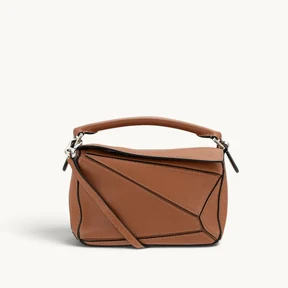
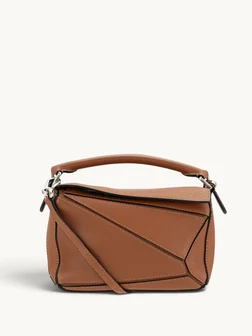
Deploy 65b601f349eb

Changed region(s): [[0.0278, 0.375, 0.8889, 0.9062], [0.8889, 0.625, 0.9167, 0.6562]]

diff --git a/styles.css b/styles.css
@@ -215,15 +215,18 @@ html .product-screen.is-frozen{position:fixed;inset:0;z-index:70;overflow:hidden
 html .product-screen.is-frozen .product-page{position:absolute;inset:0;overflow:hidden}
 .hub.is-under{pointer-events:none}
 
-/* Similar products (scenario #/product/similar): one quiet horizontal row right under the gallery, as in the reference —
-   square photo, brand + model, price; no card containers. Bleeds to the screen edges so the third item peeks out. */
+/* Similar products (scenario #/product/similar), redesign 2026-11-06: compact vertical tiles — 3:4 photo (76–96 px wide, ≈3.6 tiles per screen) with
+   the name and price under it (Depop / Vestiaire / Doji pattern: each item is a separate model with its own price, so
+   the info stays on the tile, not in a shared label). Native horizontal scroll with momentum and proximity snap; the row
+   bleeds to the screen edges so an overflowing next tile peeks out. No cards, borders or shadows. */
 html:not([data-sections~="similar"]) .similar{display:none}
-.similar{margin:0 calc(-1 * clamp(16px,4vw,24px)) calc(-1 * var(--space-5))} /* section gap 48 → 24 to the heading */
-.similar__list{display:flex;gap:var(--space-4);margin:0;padding:0 clamp(16px,4vw,24px);list-style:none;overflow-x:auto;overscroll-behavior-x:contain;scroll-snap-type:x proximity;scroll-padding-inline:clamp(16px,4vw,24px);scrollbar-width:none;-webkit-overflow-scrolling:touch}
+.similar{--similar-tile:clamp(76px,calc((100vw - 52px) / 3.6),96px);margin:0 calc(-1 * clamp(16px,4vw,24px)) calc(-1 * var(--space-5))} /* tile: ≈3.6 per screen (76–96 px; under 76 the name gets cut), so an overflowing 4th tile always peeks */ /* section gap 48 → 24 to the heading */
+.similar__list{display:flex;gap:var(--space-3);margin:0;padding:0 clamp(16px,4vw,24px);list-style:none;overflow-x:auto;overflow-y:hidden;overscroll-behavior-x:contain;touch-action:pan-x pan-y;scroll-snap-type:x proximity;scroll-padding-inline:clamp(16px,4vw,24px);scrollbar-width:none;-webkit-overflow-scrolling:touch}
 .similar__list::-webkit-scrollbar{display:none}
-.similar__item{flex:0 0 auto;display:grid;grid-template-columns:64px minmax(0,1fr);align-items:center;column-gap:var(--space-3);width:148px;scroll-snap-align:start}
-.similar__media{width:64px;height:64px;overflow:hidden;border-radius:8px;background:#f8f7f3}
+.similar__list:focus-visible{outline:2px solid var(--ink);outline-offset:2px}
+.similar__item{flex:0 0 var(--similar-tile);display:flex;flex-direction:column;min-width:0;scroll-snap-align:start}
+.similar__media{display:block;width:100%;aspect-ratio:3 / 4;overflow:hidden;border-radius:4px;background:#f8f7f3}
 .similar__media img{display:block;width:100%;height:100%;object-fit:cover}
-.similar__text{display:flex;flex-direction:column;gap:2px;min-width:0}
-.similar__name{color:var(--ink);font-size:var(--text-body-s-size);font-weight:400;line-height:18px;overflow-wrap:anywhere}
-.similar__price{color:#555;font-family:Manrope,-apple-system,"Helvetica Neue",Arial,sans-serif;font-size:var(--text-body-s-size);font-weight:400;line-height:18px;font-variant-numeric:tabular-nums;white-space:nowrap}
+.similar__text{display:flex;flex-direction:column;margin-top:var(--space-2);min-width:0}
+.similar__name{overflow:hidden;color:var(--ink);font-size:var(--text-caption-size);font-weight:400;line-height:16px;white-space:nowrap;text-overflow:ellipsis}
+.similar__price{color:#767676;font-family:Manrope,-apple-system,"Helvetica Neue",Arial,sans-serif;font-size:var(--text-caption-size);font-weight:400;line-height:16px;font-variant-numeric:tabular-nums;white-space:nowrap}

diff --git a/index.html b/index.html
@@ -19,15 +19,15 @@
     <script>(function (d, h) { d.dataset.route = h.startsWith('#/product') ? 'product' : 'index'; d.dataset.availability = h === '#/product/sold' ? 'sold' : 'available'; d.dataset.sections = h === '#/product/similar' ? 'similar' : ''; })(document.documentElement, location.hash);</script>
     <link rel="preload" href="./assets/manrope-400.ttf" as="font" type="font/ttf" crossorigin />
     <link rel="preload" href="./assets/manrope-500.ttf" as="font" type="font/ttf" crossorigin />
-    <link rel="stylesheet" href="./design-system/tokens/tokens.css?v=58ec03b3c686" />
-    <link rel="stylesheet" href="./design-system/css/corners.css?v=58ec03b3c686" />
-    <link rel="stylesheet" href="./design-system/css/glass.css?v=58ec03b3c686" />
-    <link rel="stylesheet" href="./design-system/icons/icon.css?v=58ec03b3c686" />
-    <link rel="stylesheet" href="./design-system/components/icon-button/icon-button.css?v=58ec03b3c686" />
-    <link rel="stylesheet" href="./design-system/components/icon-button-group/icon-button-group.css?v=58ec03b3c686" />
-    <link rel="stylesheet" href="./design-system/components/button/button.css?v=58ec03b3c686" />
-    <link rel="stylesheet" href="./styles.css?v=58ec03b3c686" />
-    <meta name="build" content="58ec03b3c686" />
+    <link rel="stylesheet" href="./design-system/tokens/tokens.css?v=65b601f349eb" />
+    <link rel="stylesheet" href="./design-system/css/corners.css?v=65b601f349eb" />
+    <link rel="stylesheet" href="./design-system/css/glass.css?v=65b601f349eb" />
+    <link rel="stylesheet" href="./design-system/icons/icon.css?v=65b601f349eb" />
+    <link rel="stylesheet" href="./design-system/components/icon-button/icon-button.css?v=65b601f349eb" />
+    <link rel="stylesheet" href="./design-system/components/icon-button-group/icon-button-group.css?v=65b601f349eb" />
+    <link rel="stylesheet" href="./design-system/components/button/button.css?v=65b601f349eb" />
+    <link rel="stylesheet" href="./styles.css?v=65b601f349eb" />
+    <meta name="build" content="65b601f349eb" />
   </head>
   <body>
     <!-- Prototype index: scenarios are rendered from the registry in navigation.js -->
@@ -133,6 +133,6 @@
     </nav>
     </div>
     <div class="toast" id="toast" role="status" aria-live="polite"></div>
-    <script type="module" src="./app.js?v=58ec03b3c686"></script>
+    <script type="module" src="./app.js?v=65b601f349eb"></script>
   </body>
 </html>

diff --git a/similar-products.js b/similar-products.js
@@ -1,19 +1,23 @@
-// Similar products strip (scenario «Карточка товара — похожие товары»): one horizontal row of compact items —
-// square photo, brand + model, price — directly under the gallery, as in the reference. Rendered from data
+// Similar products strip (scenario «Карточка товара — похожие товары»): one horizontal row of compact vertical tiles —
+// 3:4 photo with brand + model and price under it — directly under the gallery. Rendered from data
 // (similar-products.data.js); shown only when the scenario lists the 'similar' section (html[data-sections], styles.css).
 // Items have no destination yet, so they are not links (no fake navigation).
-import { SIMILAR_PRODUCTS } from './similar-products.data.js?v=58ec03b3c686';
+import { SIMILAR_PRODUCTS } from './similar-products.data.js?v=65b601f349eb';
 
 const formatPrice = value => `${String(value).replace(/\B(?=(\d{3})+(?!\d))/g, ' ')} ₽`;
 
 export function renderSimilarProducts(list, products = SIMILAR_PRODUCTS) {
+  // Keyboard: the row is focusable only when it overflows, so arrow keys can scroll it (no tab stop otherwise).
+  new ResizeObserver(() => {
+    if (list.scrollWidth > list.clientWidth + 1) list.tabIndex = 0; else list.removeAttribute('tabindex');
+  }).observe(list);
   list.replaceChildren(...products.map(product => {
     const item = document.createElement('li');
     item.className = 'similar__item';
     item.dataset.id = product.id;
     const media = document.createElement('span');
     media.className = 'similar__media';
-    const img = new Image(144, 144);
+    const img = new Image(252, 336);
     img.src = product.image;
     img.alt = product.alt;
     img.loading = 'lazy';

diff --git a/app.js b/app.js
@@ -1,11 +1,11 @@
 // UI Kit (../IOS:UI Agent/design-system via the design-system link): icons from the approved registry, glass controls
 // through GlassIconButton (live Liquid Glass engine), actions through Button. No local icon or glass implementations.
-import { createIcon } from './design-system/icons/icon.js?v=58ec03b3c686';
-import { createIconButton } from './design-system/components/icon-button/icon-button.js?v=58ec03b3c686';
-import { createIconButtonGroup } from './design-system/components/icon-button-group/icon-button-group.js?v=58ec03b3c686';
-import { createButton } from './design-system/components/button/button.js?v=58ec03b3c686';
-import { goToIndex } from './navigation.js?v=58ec03b3c686';
-import { renderSimilarProducts } from './similar-products.js?v=58ec03b3c686';
+import { createIcon } from './design-system/icons/icon.js?v=65b601f349eb';
+import { createIconButton } from './design-system/components/icon-button/icon-button.js?v=65b601f349eb';
+import { createIconButtonGroup } from './design-system/components/icon-button-group/icon-button-group.js?v=65b601f349eb';
+import { createButton } from './design-system/components/button/button.js?v=65b601f349eb';
+import { goToIndex } from './navigation.js?v=65b601f349eb';
+import { renderSimilarProducts } from './similar-products.js?v=65b601f349eb';
 
 renderSimilarProducts(document.getElementById('similarList'));
 

diff --git a/similar-products.data.js b/similar-products.data.js
@@ -1,6 +1,6 @@
 // Similar products for the «похожие товары» scenario. Data only — presentation lives in similar-products.js.
-// Photos: the user's supplied product photographs (2026-11-06), cut to square thumbnails framed on the bag
-// (same bag share in every frame, only background removed; see the report). Prices are PROTOTYPE values, not real lots.
+// Photos: the user's supplied product photographs (2026-11-06), cut to 3:4 thumbnails framed on the bag
+// (bag = 80 % of the frame width, base at 86 % height in every frame; only background removed). Prices are PROTOTYPE values, not real lots.
 export const SIMILAR_PRODUCTS = [
   { id: 'loewe-puzzle-green', brand: 'Loewe', model: 'Puzzle', price: 238000, image: './assets/similar-1.webp', alt: 'Loewe Puzzle, зелёная кожа' },
   { id: 'loewe-puzzle-beige', brand: 'Loewe', model: 'Puzzle', price: 214000, image: './assets/similar-2.webp', alt: 'Loewe Puzzle, бежевая кожа' },

diff --git a/navigation.js b/navigation.js
@@ -6,7 +6,7 @@
 // Transition: iOS-style push — the card enters from the right over the index, the index drifts 30 % left; pop reverses it.
 // An interrupted transition reverses from where it is. Safari's own swipe-back animation (hasUAVisualTransition) is
 // not doubled, and reduced motion switches screens instantly.
-import { createIcon } from './design-system/icons/icon.js?v=58ec03b3c686';
+import { createIcon } from './design-system/icons/icon.js?v=65b601f349eb';
 
 // Scenario registry: add a row here to list another scenario. `screen` is the screen it opens (only the PDP for now).
 // `availability` is the product state the shared PDP renders (available | sold); see app.js renderAvailability().

diff --git a/design-system/components/icon-button/icon-button.js b/design-system/components/icon-button/icon-button.js
@@ -4,8 +4,8 @@
 // <button> keeps the 44 × 44 hit area around it. The surface refracts through the shared Liquid Glass engine
 // (glass/engine.js); refraction: false keeps the CSS material only (e.g. a control that is not painted until focused).
 // This file never styles glass or resizes icon geometry itself.
-import { createIcon } from "../../icons/icon.js?v=58ec03b3c686";
-import { applyGlass } from "../../glass/glass.js?v=58ec03b3c686";
+import { createIcon } from "../../icons/icon.js?v=65b601f349eb";
+import { applyGlass } from "../../glass/glass.js?v=65b601f349eb";
 
 const MATERIALS = ["glass-light"]; // IconButton / Glass / Light / 44 is the only approved variant
 

diff --git a/design-system/components/icon-button-group/icon-button-group.js b/design-system/components/icon-button-group/icon-button-group.js
@@ -1,8 +1,8 @@
 // GlassIconButtonGroup: two or three independent icon actions on ONE shared Liquid Glass capsule (e.g. [Share | Cart]).
 // The group owns layout and the shared surface (applyGlass, shape "pill" → live lens from the shared engine); every item
 // is its own <button> with its own 44 × 44 target, label and handler. No glass CSS here.
-import { createIcon } from "../../icons/icon.js?v=58ec03b3c686";
-import { applyGlass } from "../../glass/glass.js?v=58ec03b3c686";
+import { createIcon } from "../../icons/icon.js?v=65b601f349eb";
+import { applyGlass } from "../../glass/glass.js?v=65b601f349eb";
 
 const ICON_SIZES = ["standard", "large"];
 

diff --git a/design-system/components/alert/alert.js b/design-system/components/alert/alert.js
@@ -1,7 +1,7 @@
 // Alert factory (confirmation of an urgent decision). createAlert({ heading, message, confirm, cancel }) → <div role="alertdialog">.
 // Content only: the modal host centres it, adds ModalBackdrop, traps focus and maps Escape to `cancel`.
-import { createButton } from "../button/button.js?v=58ec03b3c686";
-import { createTextAction } from "../text-action/text-action.js?v=58ec03b3c686";
+import { createButton } from "../button/button.js?v=65b601f349eb";
+import { createTextAction } from "../text-action/text-action.js?v=65b601f349eb";
 
 let uid = 0;
 

diff --git a/design-system/icons/icon.js b/design-system/icons/icon.js
@@ -1,6 +1,6 @@
 // Shared Icon component. createIcon(name, { size, label, presentation }) → <svg class="ds-icon">. Colour is inherited (currentColor).
-import { ICONS, META } from "./icons.generated.js?v=58ec03b3c686";
-import { PRESENTATIONS, compactFit } from "./presentation.js?v=58ec03b3c686";
+import { ICONS, META } from "./icons.generated.js?v=65b601f349eb";
+import { PRESENTATIONS, compactFit } from "./presentation.js?v=65b601f349eb";
 
 export const ICON_SIZES = [16, 20, 24, 32, 48]; // documented set; any px value renders proportionally
 

diff --git a/design-system/glass/glass.js b/design-system/glass/glass.js
@@ -4,7 +4,7 @@
 // browser with a GPU context, iOS Safari included). The CSS material always stays: it is the look before the first
 // snapshot and the whole look where the engine is off (no WebGL, Reduce Transparency, ?glass=flat).
 
-import { attachLens, engineAvailable } from "./engine.js?v=58ec03b3c686";
+import { attachLens, engineAvailable } from "./engine.js?v=65b601f349eb";
 
 export const SHAPES = ["circle", "pill", "rounded"];
 export const MATERIALS = ["light"]; // native light appearance; other materials need user approval

diff --git a/design-system/components/button/button.js b/design-system/components/button/button.js
@@ -1,6 +1,6 @@
 // Button factory. Returns a <button> styled by button.css; state is switched with setButtonState().
 // `icon` is a registered icon name (see ../../icons/registry.json) or SVG markup using currentColor; either way every state recolours it.
-import { createIcon } from "../../icons/icon.js?v=58ec03b3c686";
+import { createIcon } from "../../icons/icon.js?v=65b601f349eb";
 
 const VARIANTS = ["primary", "secondary"];
 const SIZES = ["large"];
